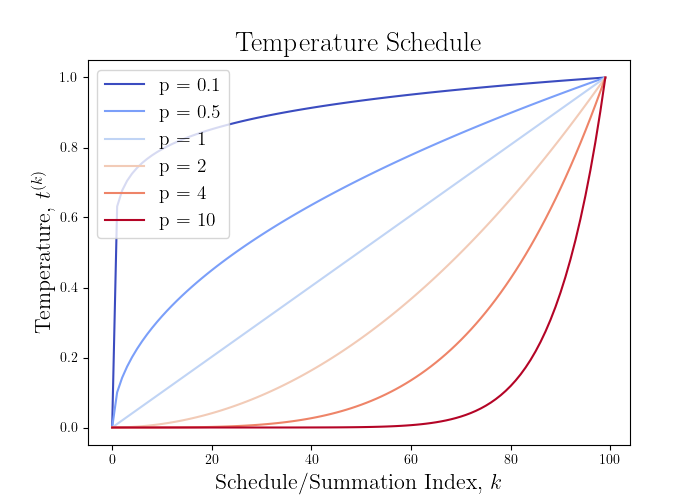
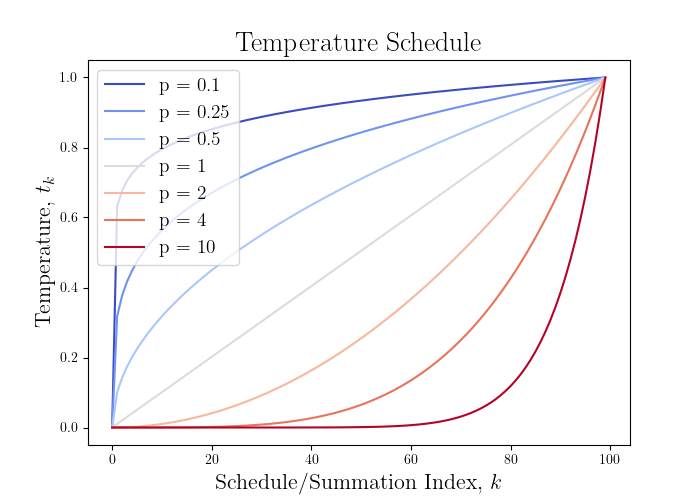
ugh

diff --git a/plotting/visual_plots/p_schedule.py b/plotting/visual_plots/p_schedule.py
@@ -9,7 +9,7 @@ plt.rcParams.update({
     'text.latex.preamble': r'\usepackage{amsmath} \usepackage{amsfonts} \usepackage{amssymb} \usepackage{bm} \newcommand{\probP}{\text{I\kern-0.15em P}}'  
 })
 
-p_list = [0.1, 0.5, 1, 2, 4, 10]
+p_list = [0.1, 0.25, 0.5, 1, 2, 4, 10]
 temp_cmap = plt.get_cmap('coolwarm')
 temp_colors = [temp_cmap(i) for i in np.linspace(0, 1, len(p_list))]
 num_temps = 100
@@ -20,7 +20,7 @@ for p in p_list:
     label = "p = {}".format(p)
     plt.plot(temp, label=label, color=temp_colors[p_list.index(p)])
 plt.xlabel(r"Schedule/Summation Index, $k$", fontsize=16)
-plt.ylabel(r"Temperature, $t^{(k)}$", fontsize=16)
+plt.ylabel(r"Temperature, $t_{k}$", fontsize=16)
 plt.title("Temperature Schedule", fontsize=20)
 plt.legend(loc="upper left", fontsize=14)   
 plt.savefig("figures/visual/temperature_schedule.png")
